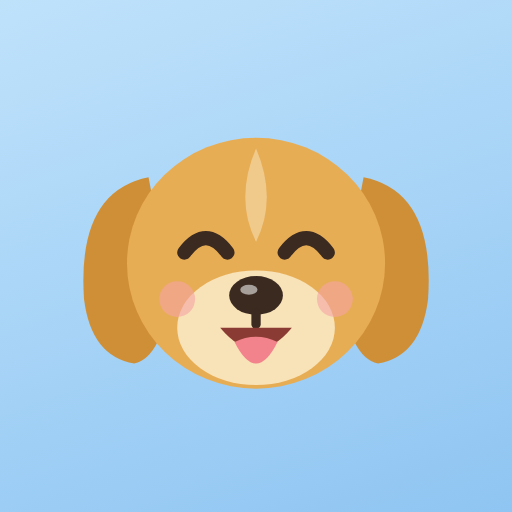
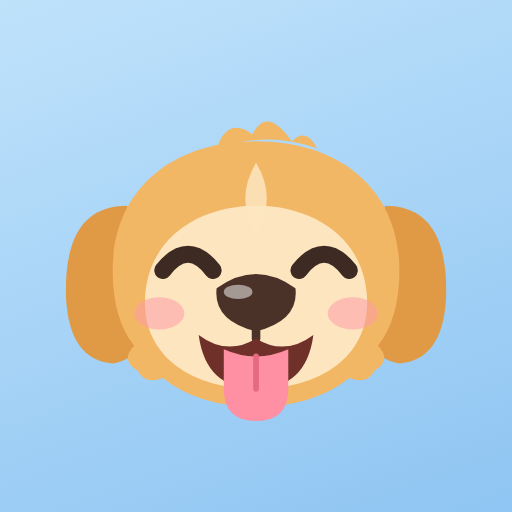
Cuter Nori, dies after 10 days, punchier alerts, day-complete celebration
Claude-Session: https://claude.ai/code/session_01DaReChVk7FWJtwBLvVgZmM

Changed region(s): [[0.125, 0.3125, 0.875, 0.8438], [0.4062, 0.2188, 0.6562, 0.3125], [0.3438, 0.2812, 0.375, 0.3125]]

diff --git a/index.html b/index.html
@@ -402,8 +402,8 @@ details.panel:not([open]){gap:0}
 .nori.m-happy .n-ear{animation:ear .8s ease-in-out infinite;transform-box:fill-box;transform-origin:50% 0}
 .nori.m-happy .n-ear.r{animation-delay:.4s}
 .nori.m-sad .nori-svg,.nori.m-sick .nori-svg,.nori.m-hospital .nori-svg{animation:droop 3s ease-in-out infinite;transform-origin:50% 90%}
-.nori.m-ghost{background:#f1f4f9}
-.nori.m-ghost .nori-svg{animation:float 3s ease-in-out infinite;opacity:.9}
+.nori.m-dead{background:#f1f4f9}
+.nori.m-dead .nori-svg{animation:float 3s ease-in-out infinite;opacity:.9}
 @keyframes wag{0%,100%{transform:rotate(-5deg)}50%{transform:rotate(5deg)}}
 @keyframes ear{0%,100%{transform:rotate(0)}50%{transform:rotate(-10deg)}}
 @keyframes droop{0%,100%{transform:translateY(0) rotate(0)}50%{transform:translateY(2px) rotate(-2deg)}}
@@ -429,6 +429,24 @@ details.panel:not([open]){gap:0}
 @keyframes streakIn{from{transform:scale(.3);opacity:0}to{transform:none;opacity:1}}
 .set-note{font-size:12px;color:var(--muted);margin-top:6px;word-break:keep-all;line-height:1.5}
 .set-note:empty{display:none}
+/* ===== day-complete celebration ===== */
+.cheer{position:absolute;inset:0;z-index:30;display:grid;place-items:center;background:radial-gradient(circle at 50% 40%,#ffffff,#d6ecfc);animation:fade .3s ease both;overflow:hidden}
+.cheer[hidden]{display:none}
+.cheer-box{display:flex;flex-direction:column;align-items:center;gap:12px;text-align:center;padding:0 24px;position:relative;z-index:2}
+.cheer-nori{width:168px;height:168px;position:relative;animation:hop .9s cubic-bezier(.3,.7,.4,1) infinite}
+.cheer-nori .nori-svg{width:100%;height:100%}
+.cheer-nori .n-ear{animation:ear .45s ease-in-out infinite;transform-box:fill-box;transform-origin:50% 0}
+.cheer-nori .n-ear.r{animation-delay:.22s}
+.cheer-shadow{width:110px;height:14px;border-radius:50%;background:rgba(40,95,160,.16);margin-top:-14px;animation:shadow .9s cubic-bezier(.3,.7,.4,1) infinite}
+@keyframes hop{0%,100%{transform:translateY(0) scale(1.06,.94)}15%{transform:translateY(0) scale(1)}50%{transform:translateY(-34px) rotate(-4deg)}80%{transform:translateY(0) scale(1)}}
+@keyframes shadow{0%,100%{transform:scale(1)}50%{transform:scale(.6);opacity:.6}}
+.cheer h2{margin:6px 0 0;font-size:40px;font-weight:900;letter-spacing:-.04em;color:var(--violet);animation:streakIn .7s cubic-bezier(.2,1.5,.4,1) both .15s}
+.cheer p{margin:0;font-size:17px;font-weight:700;color:var(--ink-2);word-break:keep-all;line-height:1.5;animation:rise .5s var(--ease) both .3s}
+.cheer .go{margin-top:12px;min-width:220px;animation:rise .5s var(--ease) both .5s}
+.heart{position:absolute;font-size:22px;bottom:60%;animation:heartUp 1.6s ease-out infinite;opacity:0}
+@keyframes heartUp{0%{transform:translateY(0) scale(.6);opacity:0}20%{opacity:1}100%{transform:translateY(-90px) scale(1.1);opacity:0}}
+.cf{position:absolute;top:-20px;width:9px;height:14px;border-radius:3px;animation:cfall linear forwards}
+@keyframes cfall{to{transform:translateY(110vh) rotate(720deg)}}
 /* ===== dictionary popup (after a card is solved) ===== */
 .blank.ok{cursor:pointer}
 #card.solved .blank.ok,.blank.ok.shown{box-shadow:inset 0 -2px 0 rgba(44,108,180,.28)}
@@ -659,6 +677,18 @@ details.panel:not([open]){gap:0}
     </div>
     <div class="scroll gutter"><div class="list" id="l-list"></div></div>
   </section>
+
+  <!-- DAY COMPLETE -->
+  <div class="cheer" id="cheer" hidden role="dialog" aria-labelledby="cheer-t">
+    <div class="cheer-box">
+      <div class="cheer-nori" id="cheer-nori"></div>
+      <div class="cheer-shadow"></div>
+      <h2 id="cheer-t">잘했어요!</h2>
+      <p id="cheer-sub"></p>
+      <div class="streak-pop" id="cheer-streak"></div>
+      <button class="go" id="cheer-ok" type="button">노리랑 하이파이브</button>
+    </div>
+  </div>
 
   <!-- ANALYSIS BY SOURCE -->
   <section class="screen" id="stats" hidden>
@@ -1736,7 +1766,7 @@ async function advance(){
   finishCard();
   const nx = pickNext();
   save();
-  if (!nx){ moving = false; busy = false; show('done'); renderDone(); return; }
+  if (!nx){ moving = false; busy = false; show('done'); renderDone(); cheer(); return; }
   const wrap = $('card-wrap');
   $('b-chip').classList.remove('show');
   await anim(wrap, [{ transform: 'none', opacity: 1 }, { transform: 'translateX(-56px) scale(.97)', opacity: 0 }], { duration: 230, easing: 'cubic-bezier(.4,0,.9,.6)', fill: 'forwards' });
@@ -1750,7 +1780,7 @@ async function advance(){
 function renderDone(){
   const s = state.sess;
   const t = today(), doneToday = !!state.days[t], sk = streak();
-  const prev = lastDay(t - 1), revived = doneToday && prev != null && t - prev >= 7;
+  const prev = lastDay(t - 1), revived = doneToday && prev != null && t - prev >= 10;
   paintNori($('d-nori'), doneToday ? 'happy' : noriState().mood);
   $('d-streak').hidden = !(doneToday && sk > 0);
   $('d-streak-n').textContent = sk + '일 연속!';
@@ -1766,54 +1796,58 @@ function renderDone(){
 }
 
 
-// Nori, the golden retriever. One face, moods change eyes, mouth and props.
+// Nori, a chibi golden retriever (squinty smile, big nose, long tongue). Moods change eyes, mouth and props.
 function nori(mood){
-  const G = '#e7ad55', G2 = '#cf8f37', C = '#f8e2b8', INK = '#3b2a20';
-  let eyes, mouth, extra = '', top = '', brows = '';
-  const eye = (x) => `<ellipse cx="${x}" cy="58" rx="5.2" ry="6.2" fill="${INK}"/><circle cx="${x + 1.8}" cy="55.6" r="1.9" fill="#fff"/>`;
+  const dead = mood === 'dead';
+  const FUR = dead ? '#dde3ec' : '#f2b765', FUR2 = dead ? '#c9d1dd' : '#e09a45', FACE = dead ? '#f7f9fc' : '#fde6bf', INK = dead ? '#7b8494' : '#3d2a22';
+  const NOSE = dead ? '#9aa3b1' : '#4b3229';
+  const blush = (c, o) => `<ellipse cx="33" cy="76" rx="7" ry="4.5" fill="${c}" opacity="${o}"/><ellipse cx="87" cy="76" rx="7" ry="4.5" fill="${c}" opacity="${o}"/>`;
+  const shiny = (x, y, r) => `<circle cx="${x}" cy="${y}" r="${r}" fill="${INK}"/><circle cx="${x + r * .35}" cy="${y - r * .4}" r="${r * .42}" fill="#fff"/><circle cx="${x - r * .4}" cy="${y + r * .35}" r="${r * .18}" fill="#fff"/>`;
+  const tongue = (h) => `<path d="M51 86q9 4 18 0v${h}q0 9-9 9t-9-9z" fill="#ff8fa3"/><path d="M60 88v${h - 2}" stroke="#e46a83" stroke-width="1.6" stroke-linecap="round"/>`;
+  let eyes = '', mouth = '', top = '', extra = '', ears = 0;
   if (mood === 'happy'){
-    eyes = `<path d="M40 59q6-8 12 0M68 59q6-8 12 0" stroke="${INK}" stroke-width="4" fill="none" stroke-linecap="round"/>`;
-    mouth = `<path d="M50 80q10 12 20 0z" fill="#8a3b33"/><path d="M54 84q6 12 12 0q-6-3-12 0z" fill="#f2828b"/>`;
-    extra = `<circle cx="38" cy="72" r="5" fill="#f5a3a3" opacity=".6"/><circle cx="82" cy="72" r="5" fill="#f5a3a3" opacity=".6"/>`;
+    eyes = `<path d="M34 64q7-9 14 0M72 64q7-9 14 0" stroke="${INK}" stroke-width="4.8" fill="none" stroke-linecap="round"/>`;
+    mouth = `<path d="M44 82q8 6 16 1q8 5 16-1q-2 15-16 15t-16-15z" fill="#6e3029"/>` + tongue(11);
+    extra = blush('#ff9aa8', .55);
   } else if (mood === 'wait'){
-    eyes = eye(46) + eye(74);
-    mouth = `<path d="M52 80q8 6 16 0" stroke="${INK}" stroke-width="3" fill="none" stroke-linecap="round"/>`;
-    extra = `<circle cx="38" cy="72" r="5" fill="#f5a3a3" opacity=".45"/><circle cx="82" cy="72" r="5" fill="#f5a3a3" opacity=".45"/>`;
+    eyes = shiny(40, 62, 6.4) + shiny(80, 62, 6.4);
+    mouth = `<path d="M47 83q7 4 13 0q6 4 13 0q-1 11-13 11t-13-11z" fill="#6e3029"/>` + tongue(6);
+    extra = blush('#ff9aa8', .45);
   } else if (mood === 'sad'){
-    eyes = eye(46) + eye(74);
-    brows = `<path d="M39 47l12 4M81 47l-12 4" stroke="${G2}" stroke-width="3.4" stroke-linecap="round"/>`;
-    mouth = `<path d="M52 85q8-6 16 0" stroke="${INK}" stroke-width="3" fill="none" stroke-linecap="round"/>`;
-    extra = `<path d="M41 66q-3 6 0 9q3-3 0-9z" fill="#7cc4f2"/>`;
+    eyes = shiny(40, 63, 6.6) + shiny(80, 63, 6.6) + `<path d="M31 52l12 4M89 52l-12 4" stroke="${FUR2}" stroke-width="3.6" stroke-linecap="round"/>`;
+    mouth = `<path d="M52 86q8-6 16 0" stroke="${INK}" stroke-width="3.2" fill="none" stroke-linecap="round"/>`;
+    extra = blush('#ff9aa8', .35) + `<path d="M35 70q-4 7 0 10q4-3 0-10z" fill="#7cc4f2"/><path d="M86 70q-4 7 0 10q4-3 0-10z" fill="#7cc4f2"/>`;
+    ears = 6;
   } else if (mood === 'sick'){
-    eyes = `<path d="M40 59h11M69 59h11" stroke="${INK}" stroke-width="3.6" stroke-linecap="round"/><path d="M40 55q5.5 3 11 0M69 55q5.5 3 11 0" stroke="${G2}" stroke-width="2.6" fill="none" stroke-linecap="round"/>`;
-    mouth = `<path d="M53 83q7-4 14 0" stroke="${INK}" stroke-width="3" fill="none" stroke-linecap="round"/><rect x="62" y="80" width="26" height="5" rx="2.5" transform="rotate(14 62 82)" fill="#fff" stroke="#9aa4b2" stroke-width="1.2"/><circle cx="87" cy="89" r="3.2" fill="#f04a5d"/>`;
-    top = `<rect x="42" y="18" width="36" height="16" rx="8" fill="#9fd3f7" stroke="#6fb6ea" stroke-width="2"/>`;
-    extra = `<circle cx="38" cy="72" r="5" fill="#b9d98a" opacity=".55"/><circle cx="82" cy="72" r="5" fill="#b9d98a" opacity=".55"/>`;
+    eyes = `<path d="M33 63q7 5 14 0M73 63q7 5 14 0" stroke="${INK}" stroke-width="4" fill="none" stroke-linecap="round"/>`;
+    mouth = `<path d="M53 85q7-4 14 0" stroke="${INK}" stroke-width="3" fill="none" stroke-linecap="round"/><g transform="rotate(16 66 84)"><rect x="64" y="81" width="27" height="6" rx="3" fill="#fff" stroke="#b8c2cf" stroke-width="1.3"/><circle cx="90" cy="84" r="3.6" fill="#f04a5d"/></g>`;
+    top = `<rect x="41" y="16" width="38" height="17" rx="8.5" fill="#a9dbfb" stroke="#78bdea" stroke-width="2"/>`;
+    extra = blush('#a6d07d', .55);
+    ears = 4;
   } else if (mood === 'hospital'){
-    eyes = `<path d="M41 55l9 8M50 55l-9 8M70 55l9 8M79 55l-9 8" stroke="${INK}" stroke-width="3.4" stroke-linecap="round"/>`;
-    mouth = `<path d="M53 84q7-5 14 0" stroke="${INK}" stroke-width="3" fill="none" stroke-linecap="round"/>`;
-    top = `<path d="M24 40q36-22 72 0v9q-36-20-72 0z" fill="#fff" stroke="#d5dde8" stroke-width="1.5"/><path d="M57 31h6v4h4v6h-4v4h-6v-4h-4v-6h4z" fill="#f04a5d"/>`;
-    extra = `<rect x="76" y="68" width="14" height="10" rx="2" fill="#fff" stroke="#d5dde8" stroke-width="1.4" transform="rotate(-18 83 73)"/>`;
-  } else { // ghost
-    eyes = `<path d="M40 60q6 5 12 0M68 60q6 5 12 0" stroke="${INK}" stroke-width="3.4" fill="none" stroke-linecap="round"/>`;
-    mouth = `<path d="M53 81q7 4 14 0" stroke="${INK}" stroke-width="3" fill="none" stroke-linecap="round"/>`;
-    top = `<ellipse cx="60" cy="14" rx="22" ry="6.5" fill="none" stroke="#f5c84b" stroke-width="4.5"/>`;
+    eyes = `<path d="M33 64q7 4 14 0M73 64q7 4 14 0" stroke="${INK}" stroke-width="4" fill="none" stroke-linecap="round"/><path d="M33 58l8 2M87 58l-8 2" stroke="${FUR2}" stroke-width="3" stroke-linecap="round"/>`;
+    mouth = `<path d="M54 86q6-3 12 0" stroke="${INK}" stroke-width="3" fill="none" stroke-linecap="round"/>`;
+    top = `<path d="M22 44q38-26 76 0l-2 10q-36-22-72 0z" fill="#fff" stroke="#d6dde7" stroke-width="1.6"/><path d="M56 30h8v5h5v8h-5v5h-8v-5h-5v-8h5z" fill="#f04a5d"/>`;
+    extra = `<path d="M92 50q-3 6 0 8q3-2 0-8z" fill="#7cc4f2"/><rect x="25" y="72" width="15" height="10" rx="2.5" fill="#fff" stroke="#d6dde7" stroke-width="1.4" transform="rotate(14 32 77)"/>`;
+    ears = 7;
+  } else { // dead
+    eyes = `<path d="M34 57l11 11M45 57l-11 11M75 57l11 11M86 57l-11 11" stroke="${INK}" stroke-width="3.8" stroke-linecap="round"/>`;
+    mouth = `<path d="M50 84q10 5 20 0" stroke="${INK}" stroke-width="3" fill="none" stroke-linecap="round"/><path d="M62 85v6q0 6 5 6t5-6v-7q-5 3-10 1z" fill="#ffc2cd"/>`;
+    top = `<ellipse cx="60" cy="10" rx="21" ry="6" fill="none" stroke="#f6c945" stroke-width="4.5"/>`;
+    extra = `<path d="M14 74q-14-12-8-28q10 7 16 18zM106 74q14-12 8-28q-10 7-16 18z" fill="#fff" stroke="#dce2ea" stroke-width="1.5"/>`;
+    ears = 3;
   }
-  const ghost = mood === 'ghost';
-  const g = ghost ? '#e9edf3' : G, g2 = ghost ? '#cdd5e0' : G2, c = ghost ? '#ffffff' : C;
-  const wings = ghost ? `<path d="M18 70q-16-10-12-26q10 6 18 16zM102 70q16-10 12-26q-10 6-18 16z" fill="#fff" stroke="#dbe2ec" stroke-width="1.5"/>` : '';
-  return `<svg class="nori-svg" viewBox="0 0 120 120" xmlns="http://www.w3.org/2000/svg" aria-hidden="true">${wings}
-<g class="n-ear l"><path d="M30 38q-20 4-18 34q2 16 14 18q8-2 10-20z" fill="${g2}"/></g>
-<g class="n-ear r"><path d="M90 38q20 4 18 34q-2 16-14 18q-8-2-10-20z" fill="${g2}"/></g>
-<ellipse cx="60" cy="62" rx="36" ry="35" fill="${g}"/>
-<path d="M60 30q-6 14 0 26q6-12 0-26z" fill="${c}" opacity=".55"/>
-<ellipse cx="60" cy="80" rx="22" ry="16" fill="${c}"/>
-${brows}${eyes}${extra}
-<ellipse cx="60" cy="71" rx="7.5" ry="5.4" fill="${INK}"/><ellipse cx="58" cy="69.4" rx="2.4" ry="1.4" fill="#fff" opacity=".55"/>
-<path d="M60 76v3" stroke="${INK}" stroke-width="2.6" stroke-linecap="round"/>
+  return `<svg class="nori-svg" viewBox="0 0 120 120" xmlns="http://www.w3.org/2000/svg" aria-hidden="true">${dead ? extra : ''}
+<g class="n-ear l"><path d="M24 ${46 + ears}q-18 0-17 26q1 17 13 18q11-2 13-19z" fill="${FUR2}"/></g>
+<g class="n-ear r"><path d="M96 ${46 + ears}q18 0 17 26q-1 17-13 18q-11-2-13-19z" fill="${FUR2}"/></g>
+<path d="M60 28c-24 0-40 14-40 36c0 9 2 16 6 21q-4 4 1 7q2 4 7 2q10 8 26 8t26-8q5 2 7-2q5-3 1-7c4-5 6-12 6-21c0-22-16-36-40-36z" fill="${FUR}"/>
+<path d="M49 30q3-9 10-4q4-8 11 2q4-4 7 2q-14-5-28 0z" fill="${FUR}"/>
+<path d="M60 46c-17 0-31 10-31 27c0 15 13 24 31 24s31-9 31-24c0-17-14-27-31-27z" fill="${FACE}"/>
+<path d="M60 34q-6 10 0 20q6-10 0-20z" fill="${FACE}" opacity=".85"/>
+${eyes}${dead ? '' : extra}
+<path d="M49 69q11-8 22 0q1 9-11 12q-12-3-11-12z" fill="${NOSE}"/><ellipse cx="55" cy="70" rx="4" ry="2" fill="#fff" opacity=".5"/><path d="M60 80v3" stroke="${NOSE}" stroke-width="2.4" stroke-linecap="round"/>
 ${mouth}${top}</svg>`;
 }
-
 /* ---------- Nori: how the dog feels depends on the last finished day ---------- */
 function lastDay(before){ const lim = before == null ? today() : before; let m = null; for (const k in state.days){ const d = +k; if (d <= lim && (m == null || d > m)) m = d; } return m; }
 function noriState(){
@@ -1821,17 +1855,18 @@ function noriState(){
   if (L === t) return { mood: 'happy', gap: 0 };
   if (L == null) return { mood: 'wait', gap: null };
   const g = t - L;
-  return { gap: g, mood: g <= 1 ? 'wait' : g === 2 ? 'sad' : g === 3 ? 'sick' : g <= 6 ? 'hospital' : 'ghost' };
+  return { gap: g, mood: g <= 1 ? 'wait' : g === 2 ? 'sad' : g <= 4 ? 'sick' : g <= 9 ? 'hospital' : 'dead' };
 }
 function noriLines(ns, sk){
   const g = ns.gap;
-  if (ns.mood === 'happy') return ['노리가 꼬리를 흔들어요', '오늘 학습 끝! 내일 또 놀아 줘요'];
-  if (g == null) return ['노리가 첫 산책을 기다려요', '오늘 분량을 끝내면 연속 기록이 시작돼요'];
-  if (g === 1) return ['노리가 현관에서 기다려요', sk ? '오늘 끝내면 ' + (sk + 1) + '일 연속이에요' : '오늘 끝내면 연속 기록이 시작돼요'];
-  if (g === 2) return ['노리가 삐졌어요', '어제 안 와서 밥도 안 먹었대요'];
-  if (g === 3) return ['노리가 아파요', '수의사 말로는 영어 단어가 약이래요'];
-  if (g <= 6) return ['노리가 입원했어요', 7 - g === 1 ? '오늘이 마지막 기회예요' : (7 - g) + '일 안에 와야 살 수 있어요'];
-  return ['노리가 무지개다리를 건넜어요', '오늘 분량을 끝내면 다시 살아나요'];
+  if (ns.mood === 'happy') return ['노리가 꼬리를 흔들어요', '오늘 끝! 내일 또 놀아 줘요'];
+  if (g == null) return ['노리가 첫 산책을 기다려요', '오늘 분량 끝내면 연속 기록 시작'];
+  if (g === 1) return ['노리가 현관에서 기다려요', sk ? '오늘 끝내면 ' + (sk + 1) + '일 연속!' : '오늘 끝내면 연속 기록 시작'];
+  if (g === 2) return ['노리가 삐졌어요', '어제 안 와서 밥그릇을 엎었대요'];
+  if (g <= 4) return ['노리가 아파요', '약은 영어 단어뿐이래요'];
+  if (g <= 6) return ['노리가 입원했어요', '면회는 노리보카에서만 돼요'];
+  if (g <= 9) return ['노리가 죽어가고 있어요', 10 - g === 1 ? '오늘 안 오면 노리가 죽어요' : (10 - g) + '일 뒤면 노리가 죽어요'];
+  return ['노리가 죽었어요', '오늘 분량을 끝내면 다시 살아나요'];
 }
 function paintNori(el, mood){ if (el.dataset.mood === mood) return; el.dataset.mood = mood; el.className = 'nori m-' + mood; el.innerHTML = nori(mood); }
 
@@ -1882,6 +1917,37 @@ function paintPush(){
   $('o-push-note').textContent = PUSH_OK ? (on ? '공부를 빼먹을수록 노리 상태가 나빠져요' : '')
     : (IOS_WEB ? '홈 화면에 추가한 앱에서 켤 수 있어요' : '이 브라우저는 알림을 지원하지 않아요');
 }
+
+/* the day's set is finished: Nori hops, hearts float, confetti falls */
+function fanfare(){
+  if (!state.settings.sfx) return;
+  const c = audio(); if (!c) return;
+  const t0 = c.currentTime + 0.02, out = c.createGain(); out.gain.value = 0.2; out.connect(c.destination);
+  [[523.25, 0], [659.25, .11], [783.99, .22], [1046.5, .33], [1318.5, .5], [1568, .5]].forEach(([f, at]) => {
+    const o = c.createOscillator(), g = c.createGain(); o.type = 'triangle'; o.frequency.value = f;
+    const len = at >= .5 ? .9 : .22;
+    g.gain.setValueAtTime(0.0001, t0 + at); g.gain.exponentialRampToValueAtTime(.5, t0 + at + .015); g.gain.exponentialRampToValueAtTime(0.0001, t0 + at + len);
+    o.connect(g); g.connect(out); o.start(t0 + at); o.stop(t0 + at + len + .05);
+  });
+}
+function cheer(){
+  const t = today(); if (!state.days[t] || state.sess.cheered) return;
+  state.sess.cheered = true; persistLocal();
+  const sk = streak(), prev = lastDay(t - 1), revived = prev != null && t - prev >= 10;
+  $('cheer-nori').innerHTML = nori('happy');
+  ['💛', '🐾', '💛', '✨'].forEach((h, i) => { const e = mk('span', 'heart', h); e.style.left = (8 + i * 26) + '%'; e.style.animationDelay = (i * .35) + 's'; $('cheer-nori').appendChild(e); });
+  $('cheer-t').textContent = revived ? '노리가 살아났어요!' : '잘했어요!';
+  $('cheer-sub').textContent = revived ? '다시는 떠나지 마요 🥹' : sk >= 2 ? '노리가 신나서 뛰어다녀요' : '오늘 분량 완료! 노리가 꼬리를 흔들어요';
+  $('cheer-streak').replaceChildren(); $('cheer-streak').insertAdjacentHTML('beforeend', $('h-fire').querySelector('svg').outerHTML); $('cheer-streak').append(sk + '일 연속!');
+  const box = $('cheer');
+  box.querySelectorAll('.cf').forEach(e => e.remove());
+  const cols = ['#6c5df5', '#ff8a00', '#18a058', '#f04a5d', '#4f9cf0', '#ffd54a'];
+  if (!reduced) for (let i = 0; i < 46; i++){ const e = mk('i', 'cf'); e.style.left = Math.random() * 100 + '%'; e.style.background = cols[i % cols.length]; e.style.animationDuration = (2.2 + Math.random() * 2) + 's'; e.style.animationDelay = (Math.random() * .8) + 's'; box.appendChild(e); }
+  box.hidden = false;
+  fanfare();
+  if (!navQuiet) navPush(current, closeCheer, 'cheer');
+}
+function closeCheer(){ if ($('cheer').hidden) return; $('cheer').hidden = true; navOverlayClosed('cheer'); }
 
 /* ---------- analysis by source ---------- */
 const GROUPS = ['수능특강', '모의고사', '생각의 지도', '기타'];
@@ -2100,6 +2166,7 @@ $('o-reset').onclick = () => { $('o-confirm').hidden = false; $('o-reset').hidde
 $('o-no').onclick = () => { $('o-confirm').hidden = true; $('o-reset').hidden = false; };
 $('o-yes').onclick = () => { const keep = state.settings; state = blankState(); state.settings = keep; save(); $('sheet').hidden = true; navOverlayClosed('sheet'); goHome(); };
 $('o-close').onclick = closeSettings;
+$('cheer-ok').onclick = closeCheer;
 $('o-push').onchange = async e => {
   const want = e.target.checked; e.target.disabled = true;
   if (want){ const ok = await enablePush(); if (ok) toast('매일 저녁 8시에 노리가 찾아갈게요'); }

diff --git a/sw.js b/sw.js
@@ -1,6 +1,6 @@
 /* 노리보카 offline support: the app shell is cached so it opens without a connection.
    Account calls (Firebase) always go to the network. Bump CACHE when the shell changes. */
-const CACHE = 'norivoka-v10';
+const CACHE = 'norivoka-v11';
 const CORE = ['./', './index.html', './manifest.webmanifest', './icon-192.png', './icon-512.png', './apple-touch-icon.png', './nori-happy.png'];
 self.addEventListener('install', e => {
   e.waitUntil(caches.open(CACHE).then(c => c.addAll(CORE)).then(() => self.skipWaiting()));
